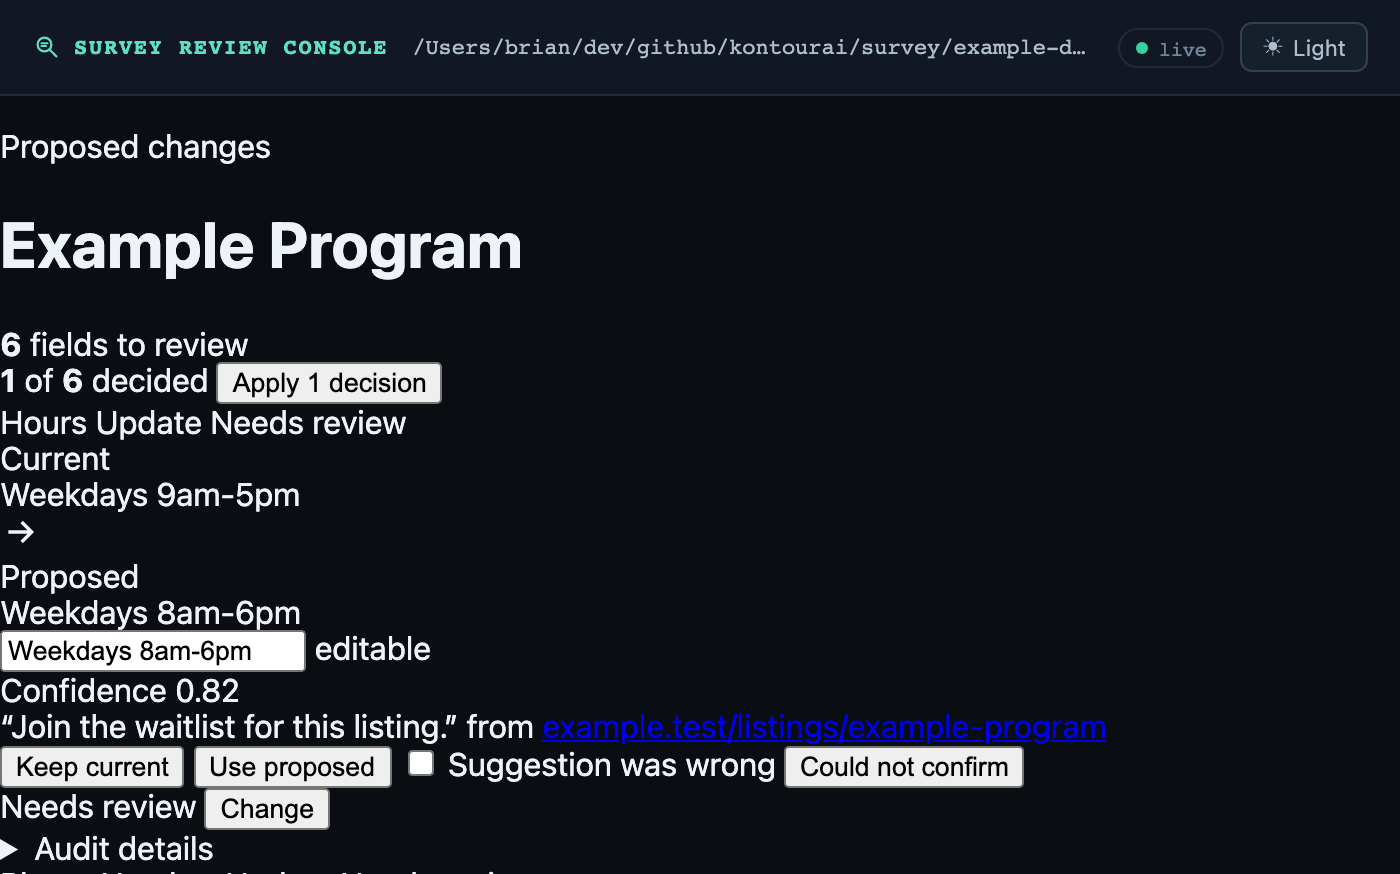
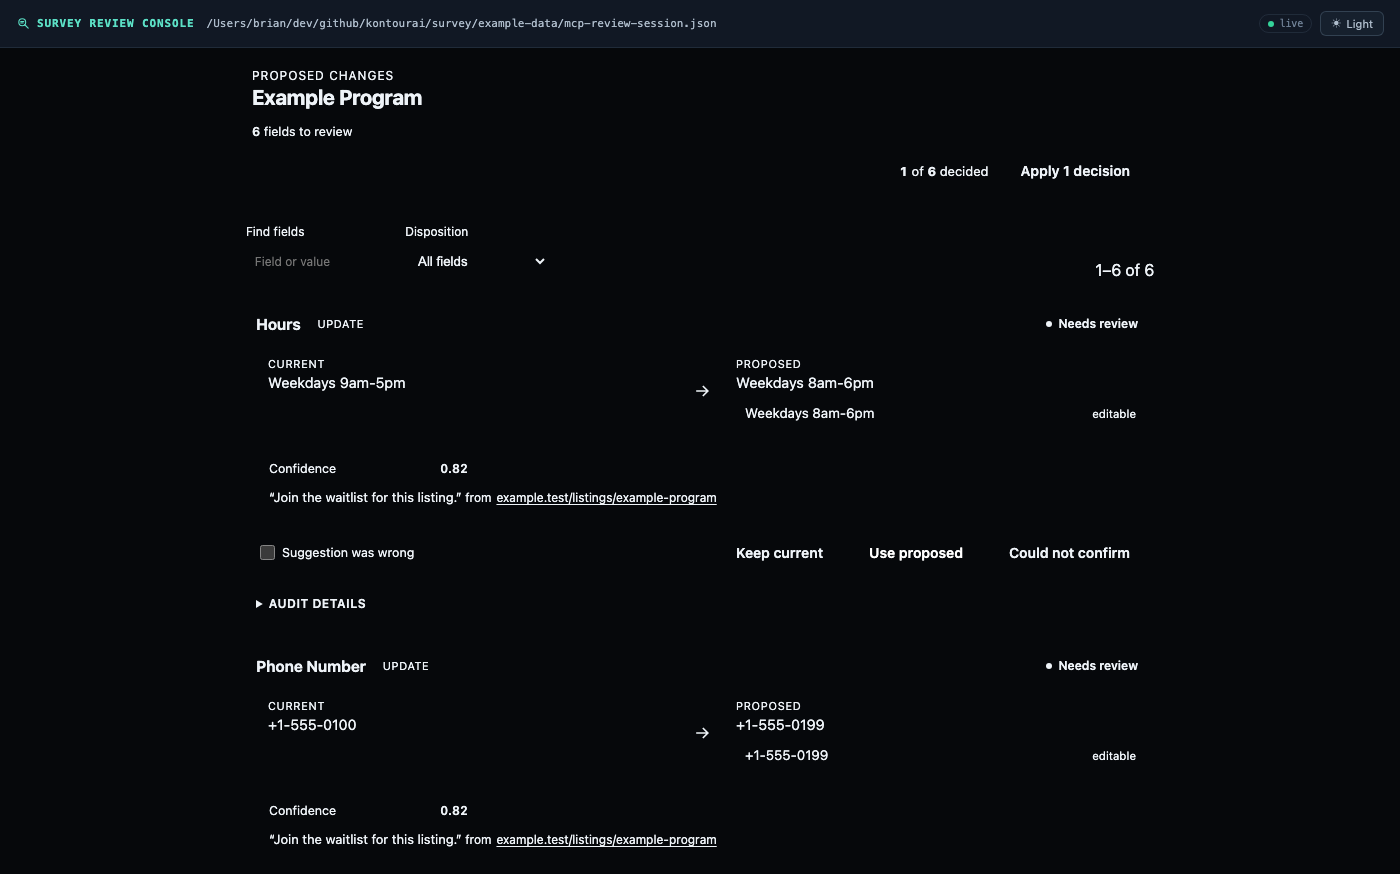
fix: recapture survey workbench styled; guard marketing visuals end-to-end
The /survey/ page shipped a review-console screenshot rendered without the
workbench stylesheet (styled header, raw-HTML body): the capture stamped
"recaptured against 1.17.0" in #203 was actually a pre-fix render of the
survey CSS-scoping bug fixed in survey#162, and nothing checked the pixels.

- recapture survey-workbench.png against released @kontourai/survey@2.2.1
  (styled end to end; example-session fixture data, 1400x874 as before)
- scripts/capture-marketing-screenshot.mjs: the sanctioned capture path.
  Refuses captures whose page fails a styled-render guard: dead stylesheet
  links, zero author rules, or <50% of visible elements matched by a
  class/id/attribute-specific rule (measured on the incident: 98% styled
  vs 2% broken; universal resets match everything so they don't count).
  Stamps marketing-assets.json with sha256 + capturedAt/AgainstVersion.
  Non-PNG assets (VHS GIFs) stamp via --stamp, which refuses PNGs.
- scripts/check-marketing-assets.mjs (deploy-blocking, in npm run validate):
  every manifest asset exists and byte-matches its sha256, every file in
  public/screenshots/ is manifested, every /screenshots/ page reference
  resolves. A visual changed outside the guarded path now fails CI.
- marketing-assets.json: sha256 backfilled for the seven other assets after
  a frame-by-frame visual audit this session (all healthy; survey was the
  only broken visual). Survey entry stamped 2.2.1 / 2026-07-24.
[…]

diff --git a/AGENTS.md b/AGENTS.md
@@ -30,6 +30,7 @@ publishable.
 - Before PR merge readiness: `npm run validate && npm run test:rendered`.
 - After any Kontour package release: run `npm run sync-versions` to pull the latest npm versions into `product-status.json`, then commit. The validator enforces the match at deploy; `sync-versions --check` catches drift in CI.
 - After refreshing a product page's copy/screenshots: set that product's `marketingReviewed` to the version you reconciled against (`node scripts/check-marketing-freshness.mjs` is the advisory signal the ops desk watches).
+- Screenshot recaptures MUST go through `node scripts/capture-marketing-screenshot.mjs --asset <path> --url <local product UI> --product-version <ver>`: it rejects unstyled/broken renders (styled-render guard) and stamps `marketing-assets.json` with the file's sha256. `npm run check:marketing-assets` (part of `npm run validate`, deploy-blocking) fails if any committed visual's bytes don't match its manifest hash — never hand-edit a `sha256`. Externally produced assets (GIFs) are stamped with `--stamp <path>`. Human-review every new capture visually before commit.
 
 ## Useful Commands
 
